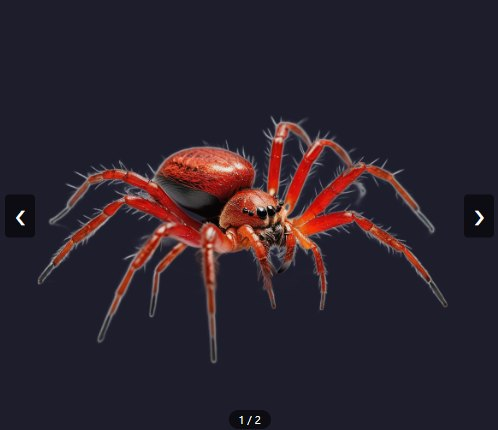
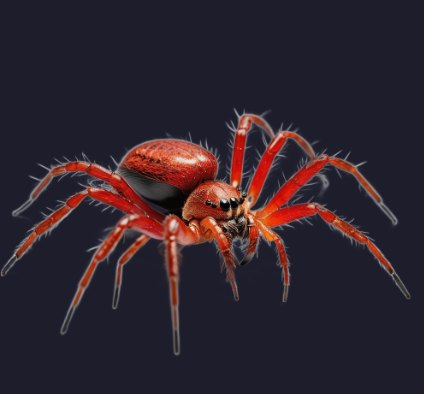
Web : bloc Claude Desktop masque (reserve au bureau) ; site : image de l'etape 1 sans fleches, mention Claude Desktop pour l'appli Windows

Changed region(s): [[0.0, 0.2741, 1.0, 0.9137], [0.4599, 0.9442, 0.5519, 1.0], [0.9505, 0.731, 0.9811, 0.7614]]

diff --git a/cloud/public/app/cloud-overrides.js b/cloud/public/app/cloud-overrides.js
@@ -21,6 +21,20 @@
 // texture a plat -> plaques aux bords droits ; voir OPTIONS_SANS_EFFET_CLOUD
 // dans le worker, qui les ignore et ne les facture plus).
 window.__optionsMortesCloud = new Set(['ws-trellis2-refine', 'ws-trellis2-face-fix']);
+/* Bloc « Assistant / Claude Desktop » des reglages : il relie Claude Desktop au
+ * serveur local de l'APPLI DE BUREAU (scripts/mcp_server.py). Sur le web il n'y a
+ * rien a relier : le bouton ne faisait rien. Masque (2026-09-27). */
+(function _masquerAssistantBureau() {
+  const f = () => {
+    const b = document.getElementById('set-claude-connect');
+    const boite = b && b.closest('.settings-box');
+    if (!boite) return;
+    boite.style.display = 'none';
+    const titre = boite.previousElementSibling;
+    if (titre && titre.classList.contains('settings-section-header')) titre.style.display = 'none';
+  };
+  if (document.readyState === 'loading') document.addEventListener('DOMContentLoaded', f); else f();
+})();
 /* « Fast (Turbo) » : l'accelerateur 4 pas ne se chargeait pas sur Modal (peft
  * absent) ; retire un moment le 2026-09-27, REMIS le meme jour avec peft dans
  * l'image du generateur d'images. */

diff --git a/docs/index.html b/docs/index.html
@@ -352,6 +352,7 @@
             <li>Works offline once the models are downloaded</li>
             <li>Needs Windows 10/11 and an NVIDIA card with 12 GB of memory</li>
             <li>Installed and updated through the Microsoft Store</li>
+            <li>Connects to Claude Desktop: generate batches of assets from text commands</li>
           </ul>
           <a class="btn" href="https://apps.microsoft.com/detail/9PH6GT8XKQDW" target="_blank" rel="noopener">Get it on Microsoft Store</a>
         </article>
